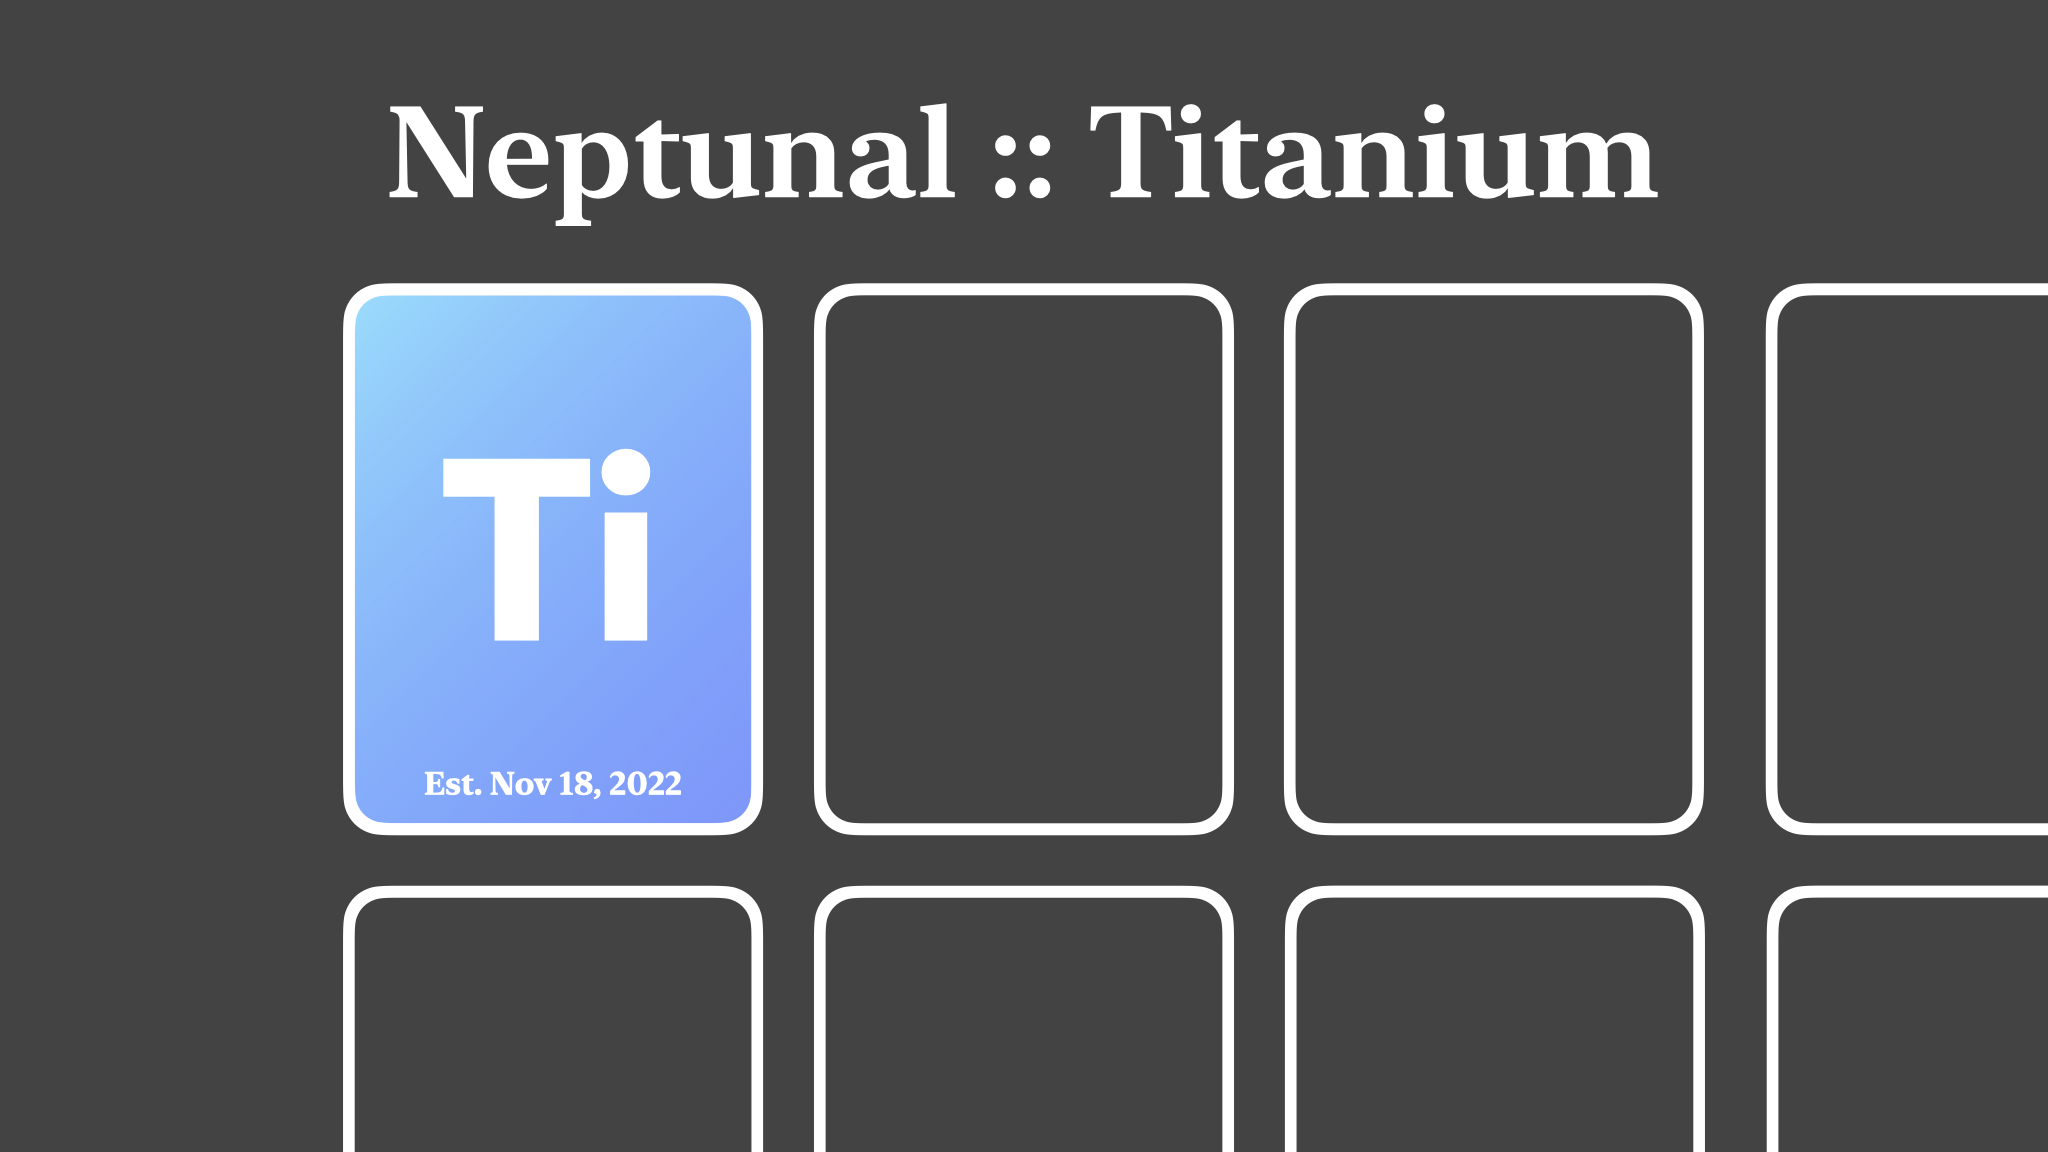
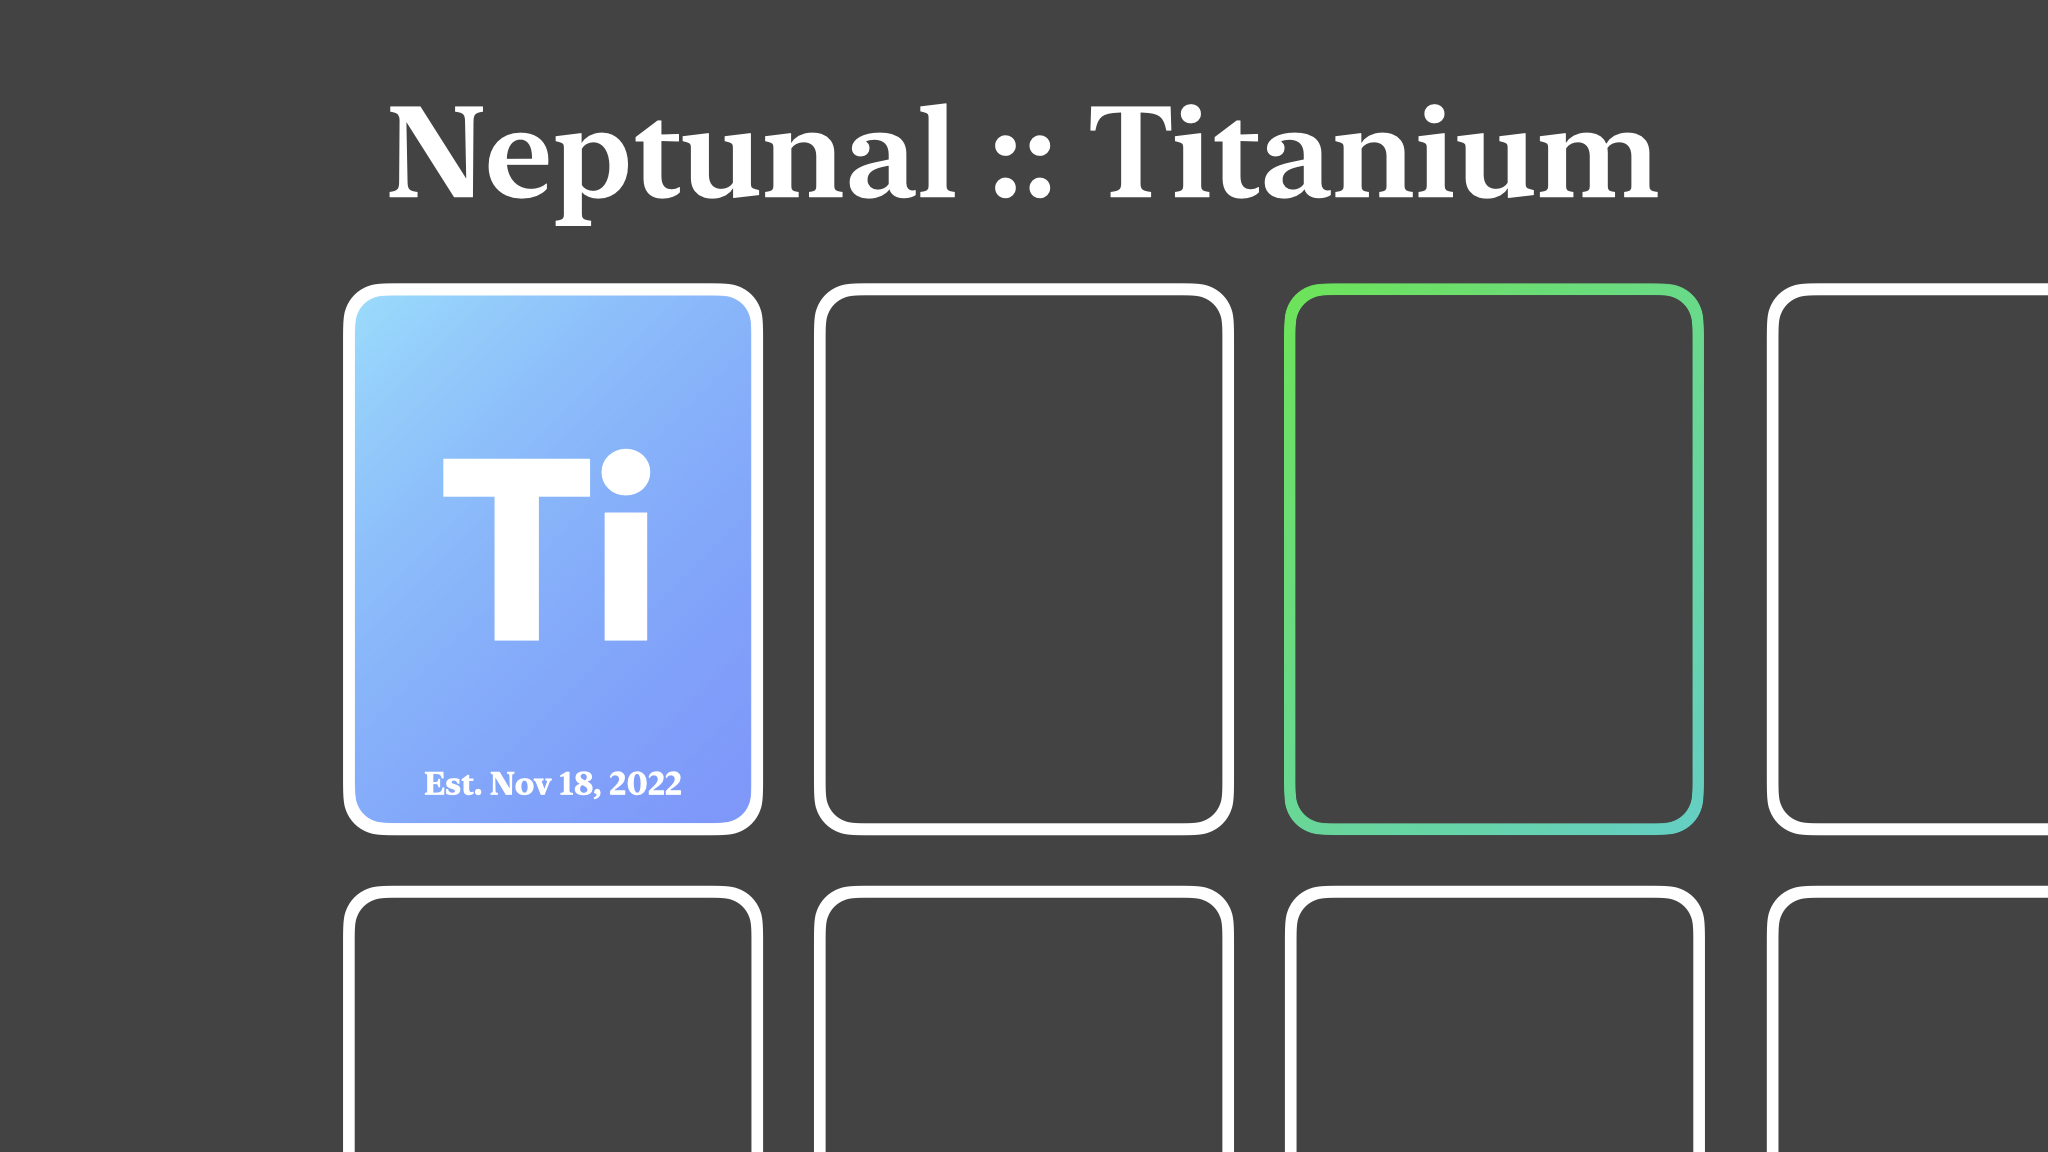
goodbye lines
moving it to a new project hooray!

Changed region(s): [[0.625, 0.2188, 0.8438, 0.75]]

diff --git a/src/main.rs b/src/main.rs
@@ -2,8 +2,6 @@ use ferrum::ch::Comp;
 use ferrum::alg::{exp, ln};
 use std::collections::{HashMap};
 
-pub mod lines;
-
 #[derive(Debug, PartialEq, Clone, Copy)]
 enum Token {
     Val(Comp),

diff --git a/readme.md b/readme.md
@@ -32,3 +32,10 @@ for multiple operations, simply use parenthesis:
 in this format, the operations become much easier to extend to other math functions.
 
 *note: actual return values will always be of type `ferrum::ch::Comp` to handle complex-valued operations.*
+
+---
+
+See my small math library that is the basis for this project at
+[Ferrum](https://github.com/nptnl/ferrum),
+and see a few visual applications for the math at
+[Chromium](https://github.com/nptnl/chromium).
